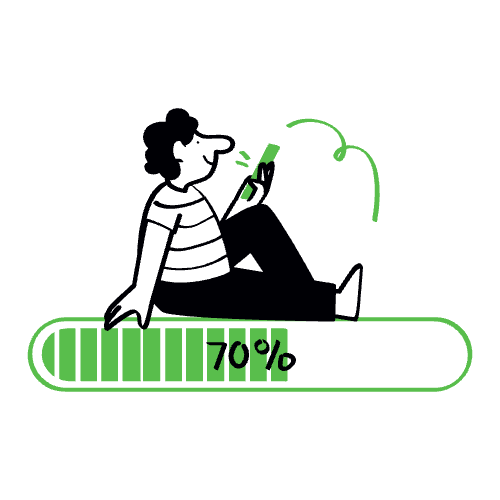
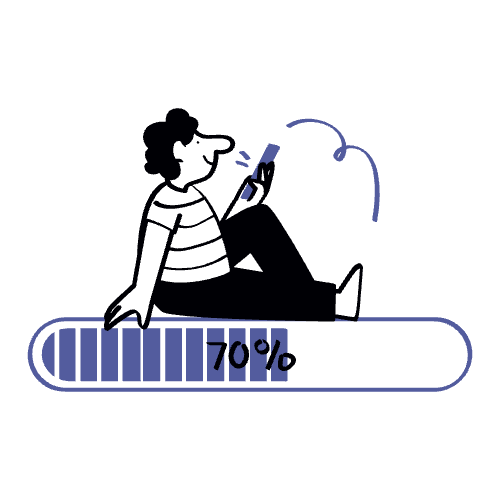
Changing image colors

diff --git a/src/how-works/HowWorks.tsx b/src/how-works/HowWorks.tsx
@@ -16,7 +16,7 @@ export default function WriteopiaExplainer() {
         
       </motion.h1>
       <motion.p
-        className="text-lg text-gray-400 max-w-4xl mb-6"
+        className="text-lg text-gray-600 dark:text-gray-400 max-w-4xl mb-6"
         initial={{ opacity: 0 }}
         animate={{ opacity: 1 }}
         transition={{ delay: 0.2 }}
@@ -51,14 +51,14 @@ function CardInstall() {
 
   return (
     <motion.div
-      className="bg-neutral-900 p-10 rounded-2xl shadow-lg flex flex-col items-center text-center w-full"
+      className="dark:bg-neutral-900 bg-white p-10 rounded-2xl shadow-lg flex flex-col items-center text-center w-full"
       initial={{ opacity: 0, y: 10 }}
       animate={{ opacity: 1, y: 0 }}
       transition={{ delay: 0.3 }}
     >
       <img src="/Loading.png" alt="Screenshot of Writeopia" className="w-60 h-60 md:w-80 md:h-80 pt-10 object-cover" />
       <h2 className="text-2xl font-semibold mb-3">{t('install_ollama', 'Install Ollama')}</h2>
-      <p className="text-lg font-semibold text-gray-400 pb-14 px-10">{t('install_ollama_description_1', 'Ollama runs directly on your machine. Go to ')}<a href='https://ollama.com' className='underline'>ollama.com</a>{t('install_ollama_description_2', ' and download the app. Start it in your machine and you can use Writeopia with AI help!')}</p>
+      <p className="text-lg font-semibold text-gray-600 dark:text-gray-400 pb-14 px-10">{t('install_ollama_description_1', 'Ollama runs directly on your machine. Go to ')}<a href='https://ollama.com' className='underline'>ollama.com</a>{t('install_ollama_description_2', ' and download the app. Start it in your machine and you can use Writeopia with AI help!')}</p>
     </motion.div>
   );
 }
@@ -66,16 +66,16 @@ function CardInstall() {
 function FeatureCard3({ icon, title, description, description2, description3 }) {
   return (
     <motion.div
-      className="bg-neutral-900 p-10 rounded-2xl shadow-lg flex flex-col items-center text-center w-full"
+      className="dark:bg-neutral-900 bg-white p-10 rounded-2xl shadow-lg flex flex-col items-center text-center w-full"
       initial={{ opacity: 0, y: 10 }}
       animate={{ opacity: 1, y: 0 }}
       transition={{ delay: 0.3 }}
     >
       <img src={icon} alt="Screenshot of Writeopia" className="w-60 h-60 md:w-80 md:h-80 pt-10 object-cover" />    
       <h2 className="text-2xl font-semibold mb-3">{title}</h2>
-      <p className="text-lg font-semibold font-semibold text-gray-400 py-2 px-10">{description}</p>
-      <p className="text-lg font-semibold text-gray-400 pt-2 pb-2 px-10">{description2}</p>
-      <p className="text-lg font-semibold text-gray-400 pt-2 pb-14 px-10">{description3}</p>
+      <p className="text-lg font-semibold font-semibold text-gray-600 dark:text-gray-400 py-2 px-10">{description}</p>
+      <p className="text-lg font-semibold text-gray-600 dark:text-gray-400 pt-2 pb-2 px-10">{description2}</p>
+      <p className="text-lg font-semibold text-gray-600 dark:text-gray-400 pt-2 pb-14 px-10">{description3}</p>
     </motion.div>
   );
 }
